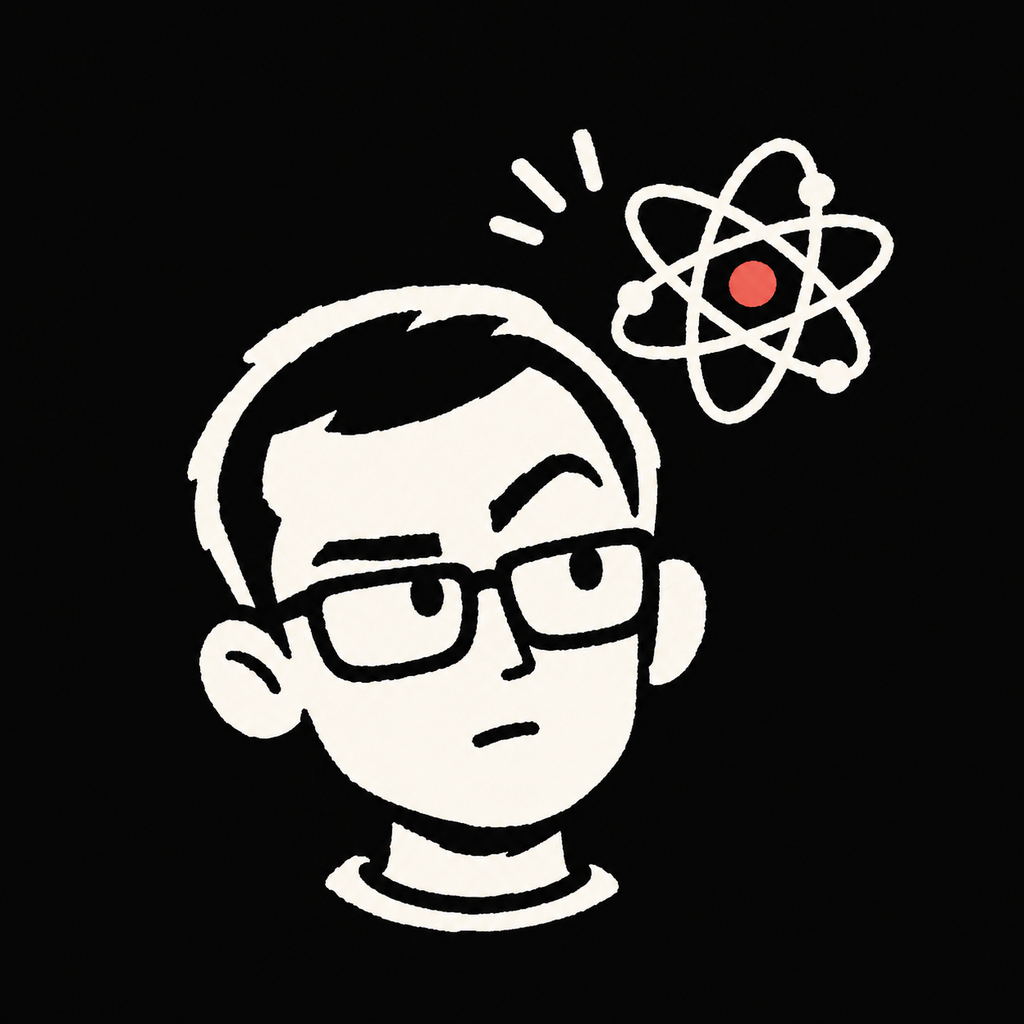
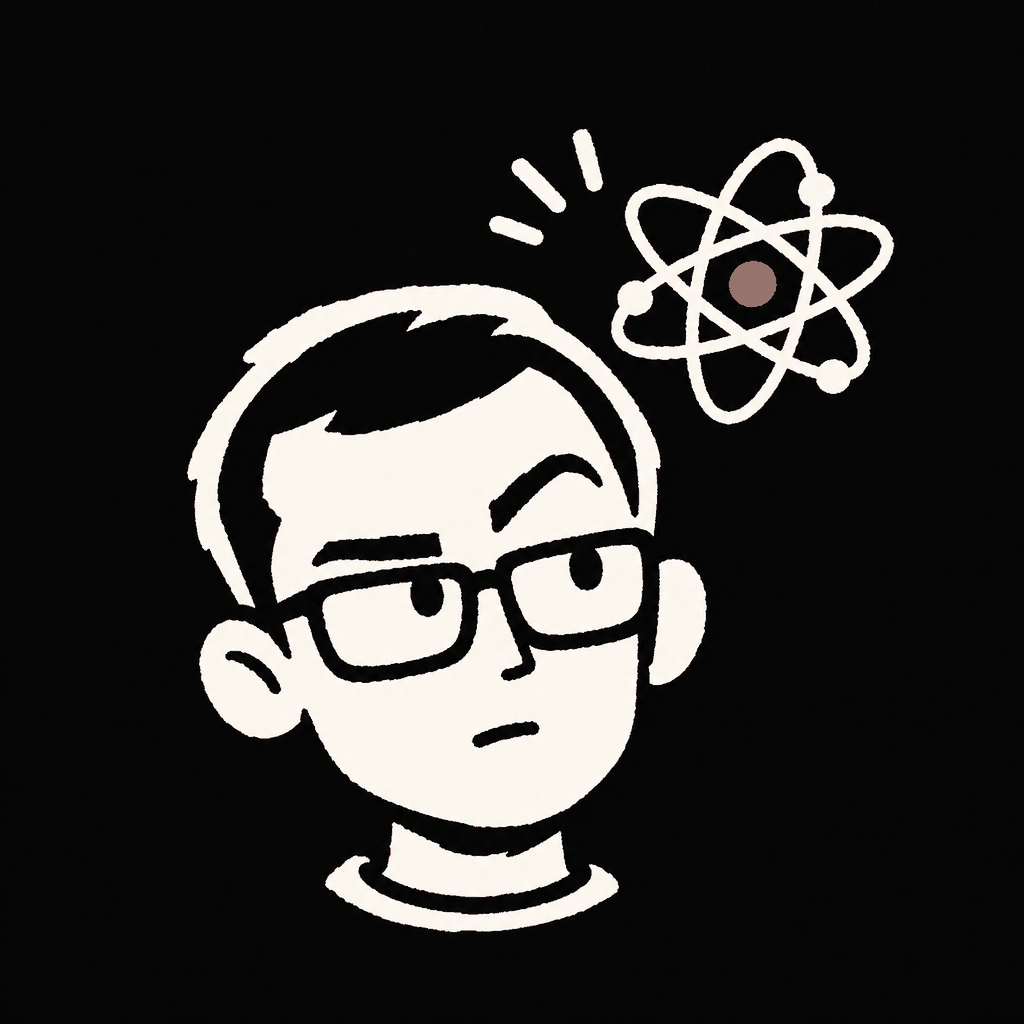
chore: clear Claude directory validator findings
- quote argument-hint values with bracket groups (codex-mode was unparseable)
- name the exact skills each skill may start instead of a bare Skill grant
- drop broad npm/pnpm/yarn/bash and unscoped Edit/Write/WebFetch/WebSearch grants
- prototype server: parse URLs against a fixed base, rename the session key constant
- journal.sh: call codex.sh by a literal CLAUDE_PLUGIN_ROOT path, no here-strings
- re-encode the icon as a palette PNG

Claude-Session: https://claude.ai/code/session_01XzE7xDvTWSvWRCGc48hm8M

Changed region(s): [[0.6875, 0.25, 0.7812, 0.3125]]

diff --git a/skills/wolowitz/SKILL.md b/skills/wolowitz/SKILL.md
@@ -7,11 +7,11 @@ allowed-tools:
   - Read
   - Grep
   - Glob
-  - Edit
-  - Write
   - Agent
   - TodoWrite
-  - Skill
+  - Skill(pasadena:amy)
+  - Skill(pasadena:leslie)
+  - Skill(pasadena:raj)
   - Bash(git status *)
   - Bash(git log *)
   - Bash(git diff *)
@@ -27,12 +27,10 @@ allowed-tools:
   - Bash(gh pr comment *)
   - Bash(gh pr edit *)
   - Bash(gh pr ready *)
-  - Bash(bash *)
+  - Bash(bash ${CLAUDE_PLUGIN_ROOT}/hooks/codex.sh *)
+  - Bash(bash ${CLAUDE_PLUGIN_ROOT}/hooks/journal.sh *)
   - Bash(sha256sum *)
   - Bash(cp *)
-  - Bash(npm *)
-  - Bash(pnpm *)
-  - Bash(yarn *)
   - Bash(make *)
   - Bash(pytest *)
   - Bash(go test *)

diff --git a/commands/codex-mode.md b/commands/codex-mode.md
@@ -1,6 +1,6 @@
 ---
 description: Show or set how much work Pasadena hands to Codex — explore, full or auto
-argument-hint: [explore|full|auto] [--branch]
+argument-hint: "[explore|full|auto] [--branch]"
 allowed-tools: Bash(bash ${CLAUDE_PLUGIN_ROOT}/hooks/codex.sh *), Bash(bash ${CLAUDE_PLUGIN_ROOT}/hooks/journal.sh *), Bash(git rev-parse *), Read
 ---
 

diff --git a/skills/sheldon/SKILL.md b/skills/sheldon/SKILL.md
@@ -7,11 +7,13 @@ allowed-tools:
   - Read
   - Grep
   - Glob
-  - WebFetch
-  - WebSearch
   - AskUserQuestion
   - TodoWrite
-  - Skill
+  - Skill(pasadena:amy)
+  - Skill(pasadena:penny)
+  - Skill(pasadena:leonard)
+  - Skill(pasadena:raj)
+  - Skill(pasadena:wolowitz)
   - Agent
   - Edit(docs/sdd/specs/**)
   - Bash(git status *)

diff --git a/skills/pasadena/SKILL.md b/skills/pasadena/SKILL.md
@@ -8,7 +8,13 @@ allowed-tools:
   - Read
   - Grep
   - Glob
-  - Skill
+  - Skill(pasadena:sheldon)
+  - Skill(pasadena:penny)
+  - Skill(pasadena:leonard)
+  - Skill(pasadena:wolowitz)
+  - Skill(pasadena:raj)
+  - Skill(pasadena:amy)
+  - Skill(pasadena:leslie)
   - Bash(git branch *)
   - Bash(git status *)
   - Bash(git log *)

diff --git a/skills/bernie/SKILL.md b/skills/bernie/SKILL.md
@@ -7,16 +7,11 @@ allowed-tools:
   - Read
   - Grep
   - Glob
-  - Edit
-  - Write
-  - Skill
+  - Skill(pasadena:amy)
   - AskUserQuestion
   - TodoWrite
   - mcp__playwright
   - mcp__claude-in-chrome
-  - Bash(npm *)
-  - Bash(pnpm *)
-  - Bash(yarn *)
   - Bash(npx playwright *)
   - Bash(git status *)
   - Bash(git diff *)

diff --git a/skills/leonard/SKILL.md b/skills/leonard/SKILL.md
@@ -10,11 +10,11 @@ allowed-tools:
   - Read
   - Grep
   - Glob
-  - WebFetch
-  - WebSearch
   - AskUserQuestion
   - TodoWrite
-  - Skill
+  - Skill(pasadena:wolowitz)
+  - Skill(pasadena:raj)
+  - Skill(pasadena:amy)
   - Edit(docs/sdd/plans/**)
   - Bash(git status *)
   - Bash(git log *)

diff --git a/skills/stuart/SKILL.md b/skills/stuart/SKILL.md
@@ -7,15 +7,10 @@ allowed-tools:
   - Read
   - Grep
   - Glob
-  - Edit
-  - Write
   - AskUserQuestion
   - TodoWrite
   - mcp__playwright
   - mcp__claude-in-chrome
-  - Bash(npm *)
-  - Bash(pnpm *)
-  - Bash(yarn *)
   - Bash(git status *)
   - Bash(git diff *)
   - TaskStop

diff --git a/commands/bazinga.md b/commands/bazinga.md
@@ -1,6 +1,6 @@
 ---
 description: Backward-compatible alias for /pasadena
-argument-hint: [what you want to build]
+argument-hint: "[what you want to build]"
 ---
 
 `/bazinga` is an alias for `/pasadena`. Use the `pasadena` skill to continue

diff --git a/skills/penny/SKILL.md b/skills/penny/SKILL.md
@@ -9,7 +9,8 @@ allowed-tools:
   - Glob
   - AskUserQuestion
   - TodoWrite
-  - Skill
+  - Skill(pasadena:sheldon)
+  - Skill(pasadena:raj)
   - Edit(docs/sdd/proto/**)
   - mcp__playwright
   - mcp__claude-in-chrome

diff --git a/skills/journal/SKILL.md b/skills/journal/SKILL.md
@@ -7,7 +7,7 @@ argument-hint: start|note|pause|finish
 allowed-tools:
   - Read
   - Glob
-  - Skill
+  - Skill(pasadena:raj)
   - Bash(git branch *)
   - Bash(git status *)
 ---
